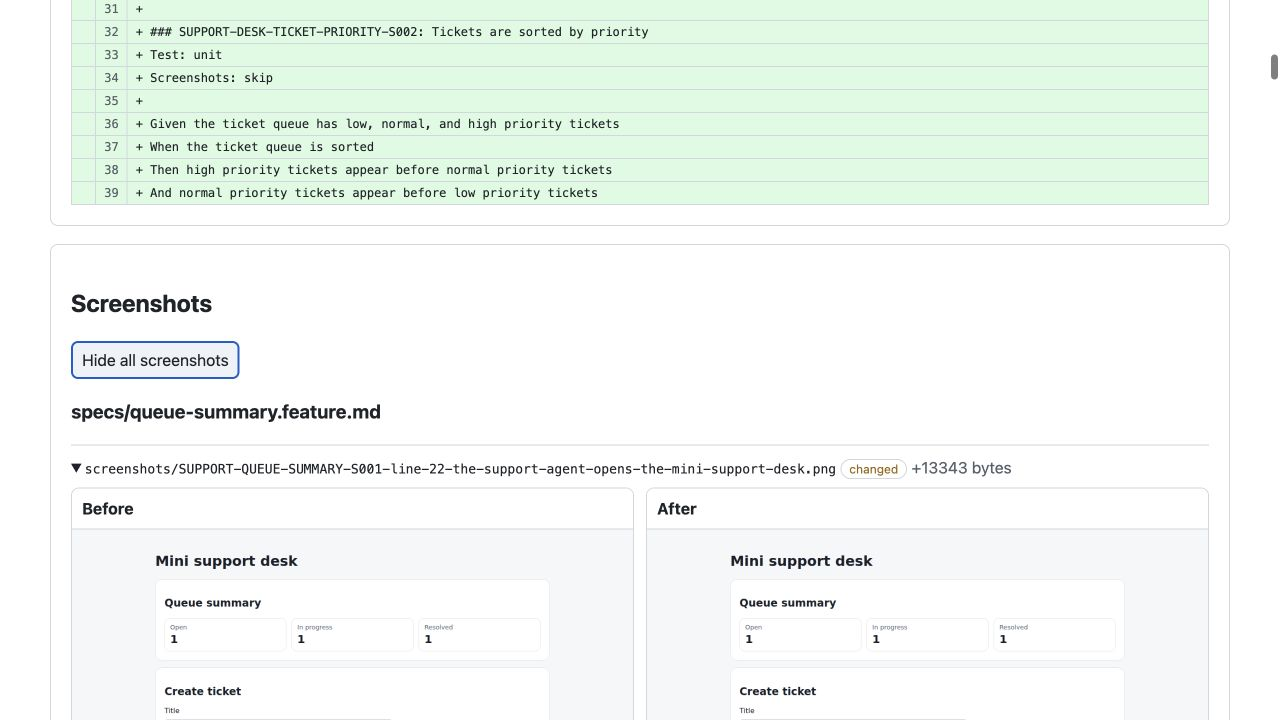
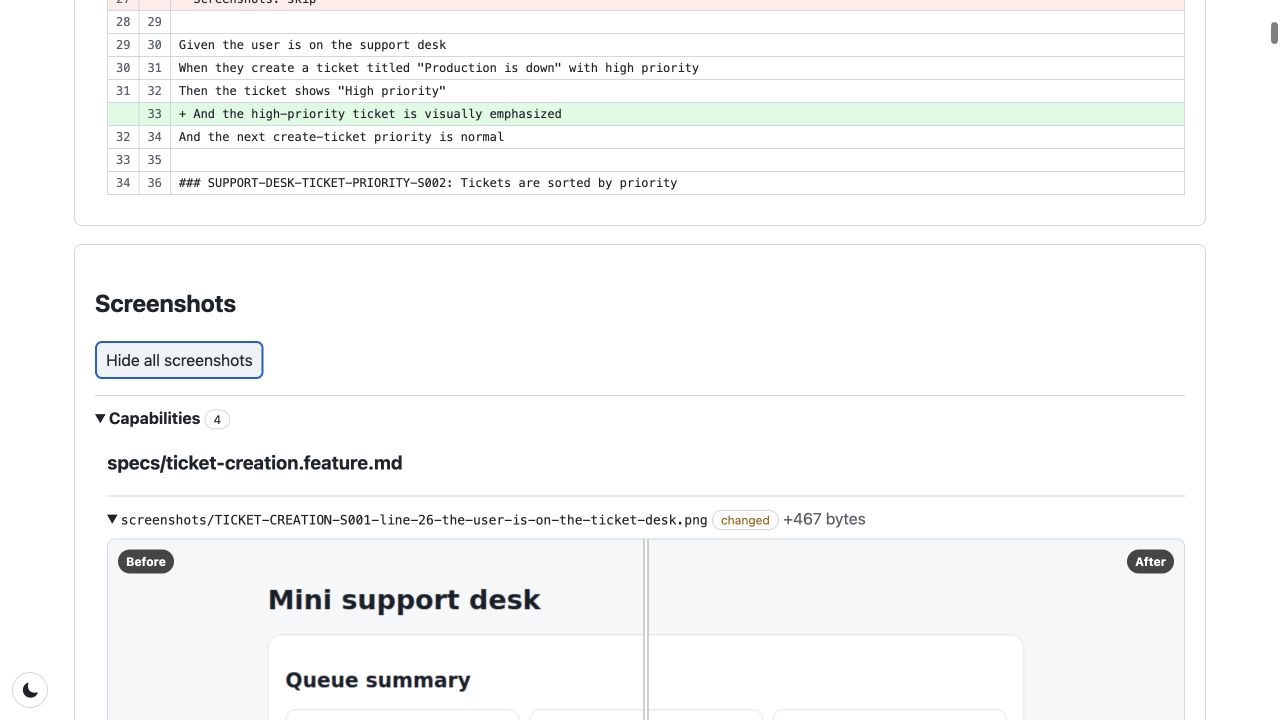
Use current demo diff in README

diff --git a/README.md b/README.md
@@ -35,12 +35,12 @@ That means a reviewer can move from **rule → scenario → test → screenshot*
 
 ## See one feature move through the loop
 
-The demo project adds ticket priority in [one real pull request](https://github.com/anselmdk/feature-spec-md-demo/pull/16): the branch adds the feature spec, unit and browser tests reference its IDs, CI publishes the complete implementation report, and the diff report shows exactly what changed against `main`.
+The demo project makes high-priority tickets visually distinct in [one real pull request](https://github.com/anselmdk/feature-spec-md-demo/pull/24): the branch updates the feature and design specs, executable tests reference their IDs, CI publishes the complete implementation report, and the diff report shows exactly what changed against `main`.
 
 - [Open the demo app repository](https://github.com/anselmdk/feature-spec-md-demo)
 - [Browse the latest demo report](https://feature-spec-md.anselm.dk/demo/latest/)
-- [Open the complete feature report](https://feature-spec-md.anselm.dk/demo/build/269/)
-- [Open the PR diff report](https://feature-spec-md.anselm.dk/demo/pr/16/269/)
+- [Open the complete feature report](https://feature-spec-md.anselm.dk/demo/build/297/)
+- [Open the PR diff report](https://feature-spec-md.anselm.dk/demo/pr/24/297/)
 - [Browse the latest library-owned mock reports](https://feature-spec-md.anselm.dk/mocks/latest/)
 
 ### The feature report: intent and proof in one place
@@ -53,9 +53,9 @@ _Click the screenshot to explore the live report._
 
 ### The PR diff report: review behavior, not just files
 
-The PR report compares two published builds. It shows changed Markdown contract text and before/after browser evidence side by side, so visual side effects are visible even when the feature did not directly touch that scenario.
+The PR report compares two published builds. It shows changed Markdown contract text and puts before/after browser evidence in an interactive comparison slider, so visual side effects are visible even when the feature did not directly touch that scenario.
 
-[![Feature spec PR diff showing before and after browser screenshots](docs/assets/pr-diff-report.jpg)](https://feature-spec-md.anselm.dk/demo/pr/16/269/)
+[![Feature spec PR diff showing the interactive before and after screenshot slider](docs/assets/pr-diff-report.jpg)](https://feature-spec-md.anselm.dk/demo/pr/24/297/)
 
 _Click the screenshot to explore the live diff report._
 
